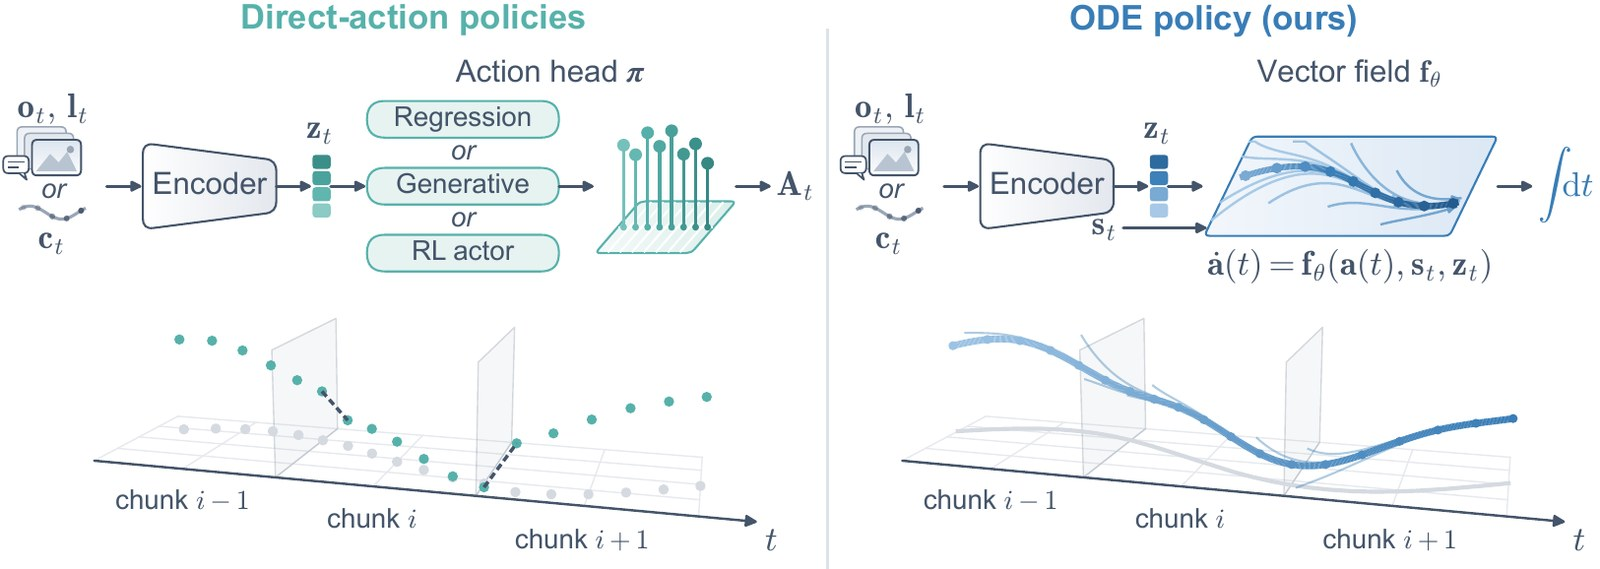
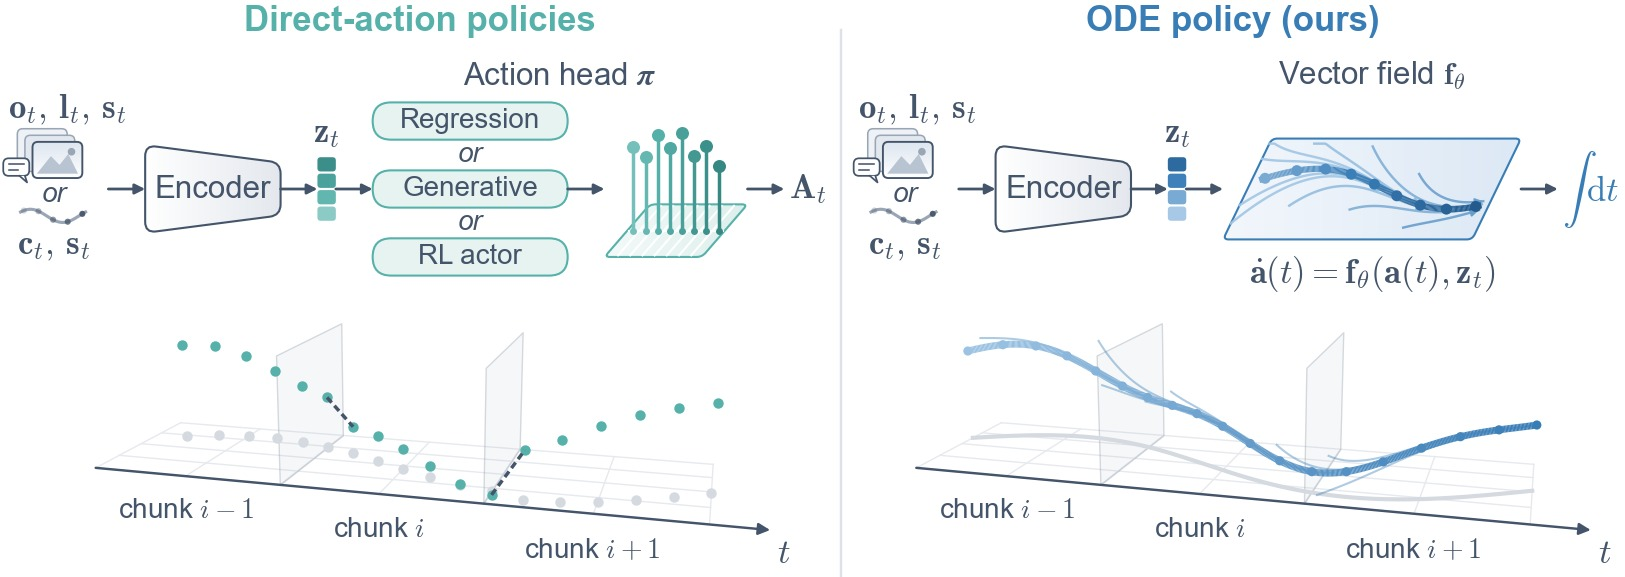
docs: proprioception in the condition in the method figure, formula, and notes

diff --git a/README.md b/README.md
@@ -101,22 +101,24 @@ Against 14 baselines, in simulation and on four real robots:
   <img src="docs/assets/method.jpg" alt="Direct-action policies vs. ODE policy" width="100%">
 </p>
 
-The policy learns a velocity field
+The policy encodes the observation and the proprioception into an embedding and learns a velocity field of the action
 
 ```
-da/dt = f(c, s, a)
+z     = E(c, s)
+da/dt = f(a, z)
 ```
 
 - **a**: the action state, i.e. the reference the controller tracks. On LIBERO this is the end-effector pose the
   controller is aiming at (the *virtual target*, see [docs/METHOD_NOTES.md](docs/METHOD_NOTES.md)).
 - **c**: the observation condition (8 frames of images and the language instruction).
-- **s**: proprioception, encoded into the condition together with the images (the paper gave it to the vector
+- **s**: proprioception, encoded into the condition together with the images (the arXiv paper gave it to the vector
   field directly; see [Default configuration](#-default-configuration-2026-11)).
+- **z**: the embedding of `c` and `s`, computed once per chunk.
 - **Gripper**: one more state of the ODE, integrated next to the pose. Each open/close switch of the
   demonstrations is ramped over a few steps, so the state is continuous; the command sent to the robot is
   read off it and stays discrete.
 
-1. **Decide.** Every H = 8 control steps, read the observation once and encode the condition `c`. `c` and `s` stay
+1. **Decide.** Every H = 8 control steps, read the observation once and encode `c` and `s` into `z`. `z` stays
    fixed for the chunk.
 2. **Integrate.** Integrate the field with *Euler* for 8 steps (one field call per step), starting from the last
    integrated action rather than the measured pose, so consecutive chunks join without a jump. The paper used RK4.

diff --git a/docs/METHOD_NOTES.md b/docs/METHOD_NOTES.md
@@ -29,9 +29,11 @@ camera at a lower rate than the control loop) learned much worse and degraded wi
 in the demonstrations `a` and `s` are nearly the same quantity, so a field that sees the
 demonstration's `s` at every step learns to copy it.
 
-**Proprioception goes into the vector field, not the condition.** Feeding `s` into the
-observation encoder as well (as most policies do) was clearly worse than giving it only to the
-field.
+**Proprioception goes into the condition (default since 2026-11).** On LIBERO, giving `s` to the
+vector field directly learns faster in the first epochs, and both placements perform similarly
+afterwards. On data with frequent pauses and high-precision tasks (e.g. ManiSkill3), the placement
+in the condition is more stable, so we recommend it unless the very first epochs matter. The
+arXiv paper used the field placement (`field_use_s=true cond_use_s=false`).
 
 **The start perturbation makes learning faster.** Shifting half the training starts by ~1 cm /
 0.03 rad and asking the path to return (offset × 0.7^k) gives a large gain in the first epochs;
